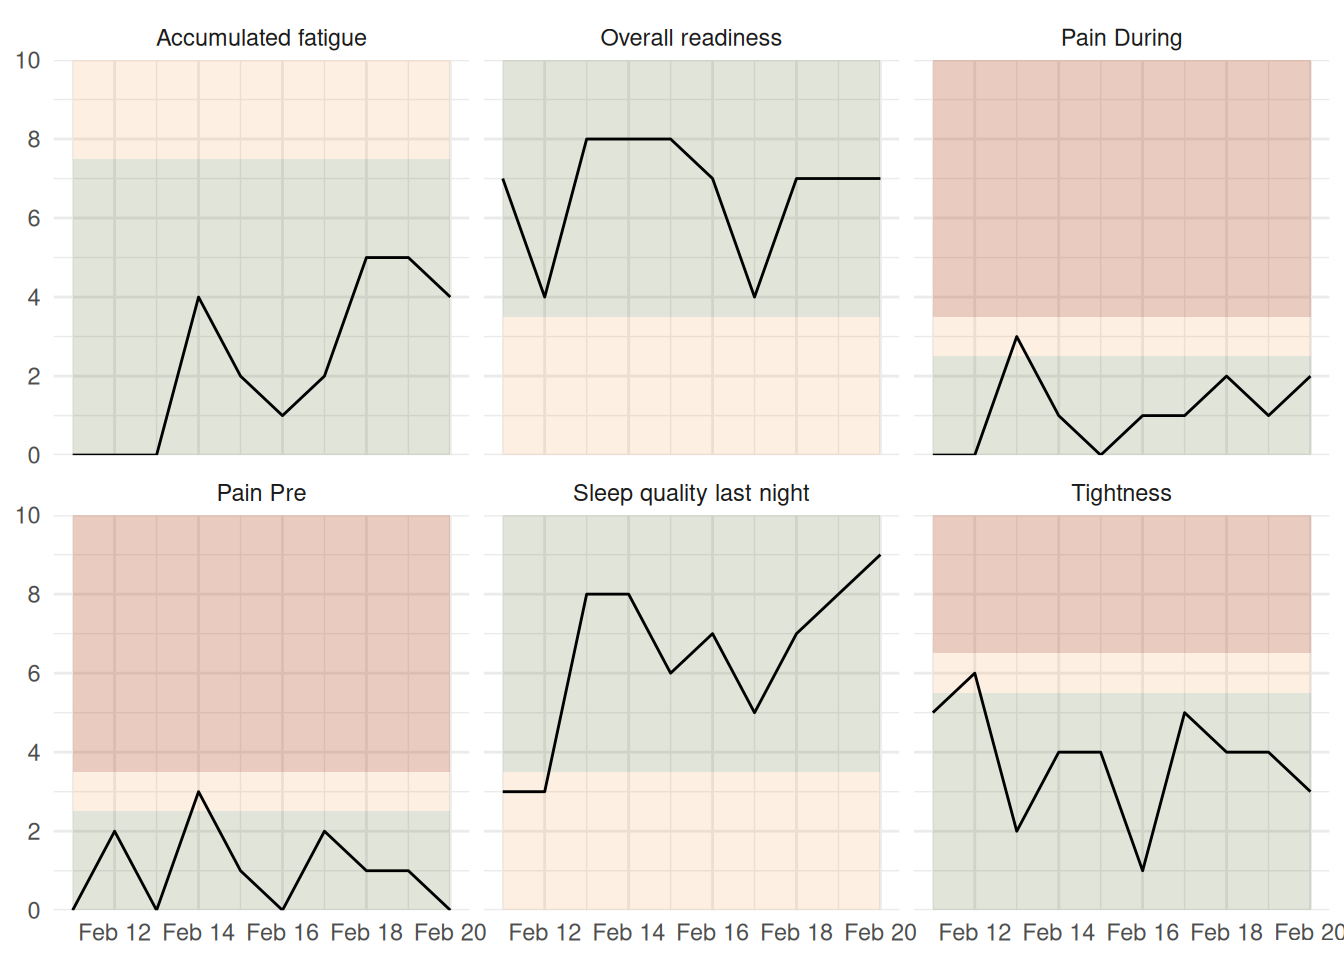
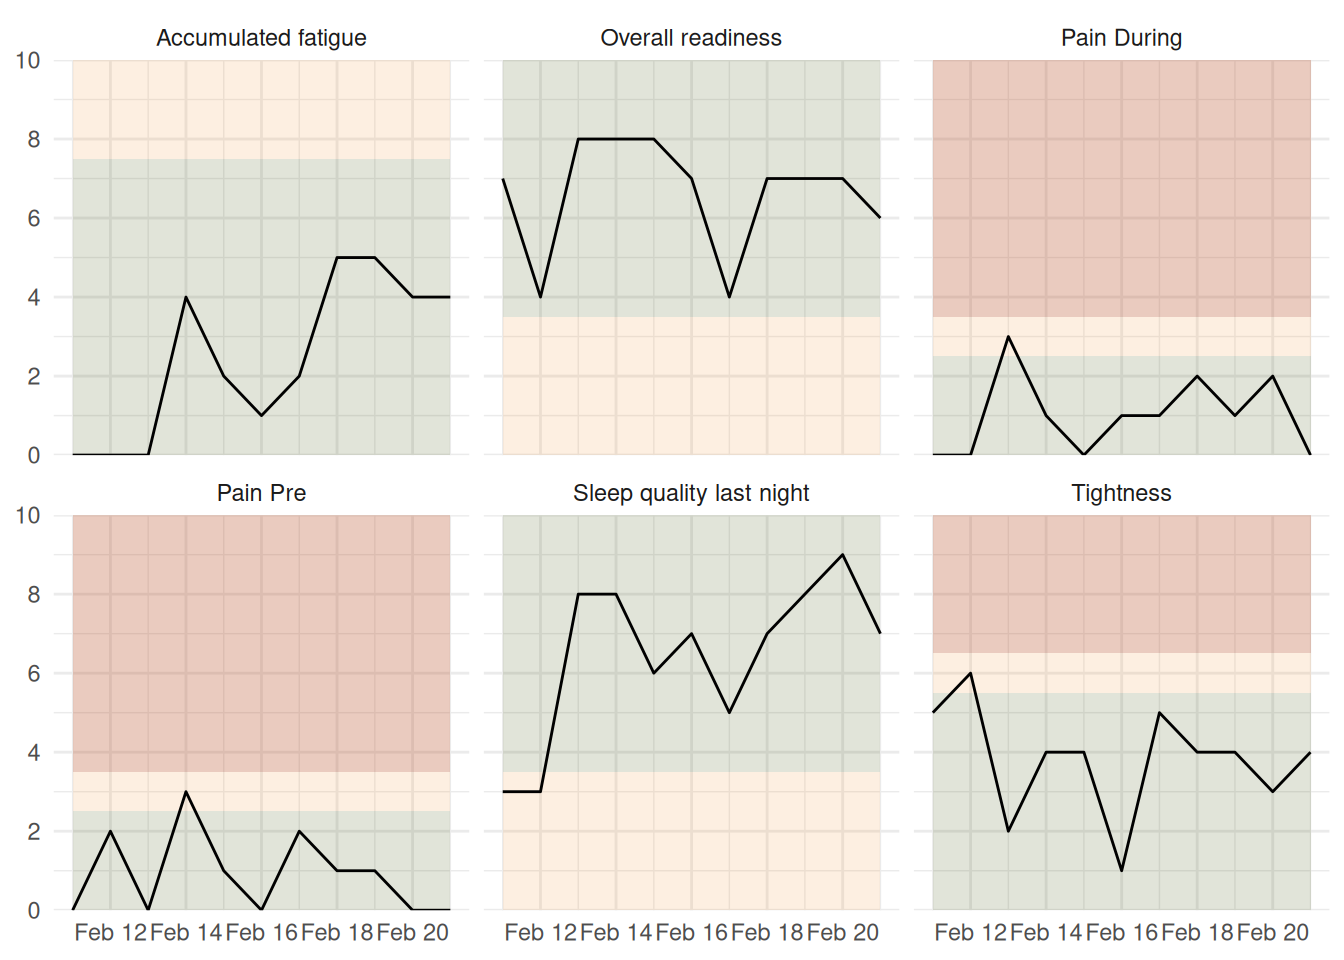
deploy: 1881e4ef7192a38233eee97bcd0dfeb0b25d7a1d

diff --git a/index.html b/index.html
@@ -135,14 +135,14 @@ ul.task-list li input[type="checkbox"] {
      border-radius:20px;
      font-weight:600;
      color:white;
-     background-color:#F49937;">RE-INTRODUCE RUNNING</div>
+     background-color:#800000;">NO RUNNING</div>
 </div>
 </div>
 <section id="details-for-todays-training-status" class="level3">
 <h3 class="anchored" data-anchor-id="details-for-todays-training-status">Details for Today’s Training Status</h3>
-<p><strong>Message:</strong> Gradually increase running. Follow back-from-injury protocol: 1 day on 1 day off for 4 days than two times 2 days on 1 day off. Start with run/walk workouts and stop immediately if pain increases during exercise. Even if only a bit.</p>
-<p><strong>What’s the problem:</strong> Some functional restriction present.</p>
-<p><strong>Which activities are blocked:</strong> NA</p>
+<p><strong>Message:</strong> Running is blocked today; other modalities may still be performed with caution.</p>
+<p><strong>What’s the problem:</strong> Irregular stride pattern. Running likely to be unsafe.</p>
+<p><strong>Which activities are blocked:</strong> running</p>
 </section>
 <section id="second-status-if-active" class="level3">
 <h3 class="anchored" data-anchor-id="second-status-if-active">Second Status if Active</h3>
@@ -153,13 +153,13 @@ ul.task-list li input[type="checkbox"] {
      border-radius:20px;
      font-weight:600;
      color:white;
-     background-color:#F49937;">EASY TRAINING ONLY</div>
+     background-color:#F49937;">RE-INTRODUCE RUNNING</div>
 </div>
 </div>
 <section id="details-of-the-second-status" class="level4">
 <h4 class="anchored" data-anchor-id="details-of-the-second-status">Details of the Second Status</h4>
-<p><strong>Message:</strong> Only easy/low-intensity training recommended today. Look for some soft surfaces and just enjoy the easy run. Training will become harder soon.</p>
-<p><strong>What’s the problem:</strong> Pain is increasing during sessions. First, sign of injury. Slow down and let the tissues and bones adapt.</p>
+<p><strong>Message:</strong> Gradually increase running. Follow back-from-injury protocol: 1 day on 1 day off for 4 days than two times 2 days on 1 day off. Start with run/walk workouts and stop immediately if pain increases during exercise. Even if only a bit.</p>
+<p><strong>What’s the problem:</strong> Some functional restriction present.</p>
 <p><strong>Which activities are blocked:</strong> NA</p>
 </section>
 </section>
@@ -174,7 +174,8 @@ ul.task-list li input[type="checkbox"] {
 [1] "2026-02-17"
 [1] "2026-02-18"
 [1] "2026-02-19"
-[1] "2026-02-20"</code></pre>
+[1] "2026-02-20"
+[1] "2026-02-21"</code></pre>
 </div>
 <div class="cell-output-display">
 <div>
@@ -264,8 +265,8 @@ ul.task-list li input[type="checkbox"] {
 <h3 class="anchored" data-anchor-id="goal-volume-by-heart-rate-distribution">Goal Volume by Heart Rate Distribution</h3>
 <div class="cell">
 <div class="cell-output-display">
-<div class="datatables html-widget html-fill-item" id="htmlwidget-d309e8756c373594e43e" style="width:100%;height:auto;"></div>
-<script type="application/json" data-for="htmlwidget-d309e8756c373594e43e">{"x":{"filter":"none","vertical":false,"data":[[0,1,2,3,4],["&lt;125","125-143","144-160","161-177","178-200"],[0,40,50,8,2],[22.1,32.8,43.9,1.2,0],[null,null,null,null,null]],"container":"<table class=\"display\">\n  <thead>\n    <tr>\n      <th>Zone<\/th>\n      <th>Current HR Thresholds<\/th>\n      <th>Share (in %)<\/th>\n      <th>Share Last Week Total (in %)<\/th>\n      <th>Share Last Week Running (in %)<\/th>\n    <\/tr>\n  <\/thead>\n<\/table>","options":{"dom":"t","paging":false,"ordering":false,"info":false,"columnDefs":[{"className":"dt-right","targets":[0,2,3,4]},{"name":"Zone","targets":0},{"name":"Current HR Thresholds","targets":1},{"name":"Share (in %)","targets":2},{"name":"Share Last Week Total (in %)","targets":3},{"name":"Share Last Week Running (in %)","targets":4}],"order":[],"autoWidth":false,"orderClasses":false}},"evals":[],"jsHooks":[]}</script>
+<div class="datatables html-widget html-fill-item" id="htmlwidget-71fb1a7fccfefedc4194" style="width:100%;height:auto;"></div>
+<script type="application/json" data-for="htmlwidget-71fb1a7fccfefedc4194">{"x":{"filter":"none","vertical":false,"data":[[0,1,2,3,4],["&lt;125","125-143","144-160","161-177","178-200"],[0,40,50,8,2],[22.1,32.8,43.9,1.2,0],[null,null,null,null,null]],"container":"<table class=\"display\">\n  <thead>\n    <tr>\n      <th>Zone<\/th>\n      <th>Current HR Thresholds<\/th>\n      <th>Share (in %)<\/th>\n      <th>Share Last Week Total (in %)<\/th>\n      <th>Share Last Week Running (in %)<\/th>\n    <\/tr>\n  <\/thead>\n<\/table>","options":{"dom":"t","paging":false,"ordering":false,"info":false,"columnDefs":[{"className":"dt-right","targets":[0,2,3,4]},{"name":"Zone","targets":0},{"name":"Current HR Thresholds","targets":1},{"name":"Share (in %)","targets":2},{"name":"Share Last Week Total (in %)","targets":3},{"name":"Share Last Week Running (in %)","targets":4}],"order":[],"autoWidth":false,"orderClasses":false}},"evals":[],"jsHooks":[]}</script>
 </div>
 </div>
 
